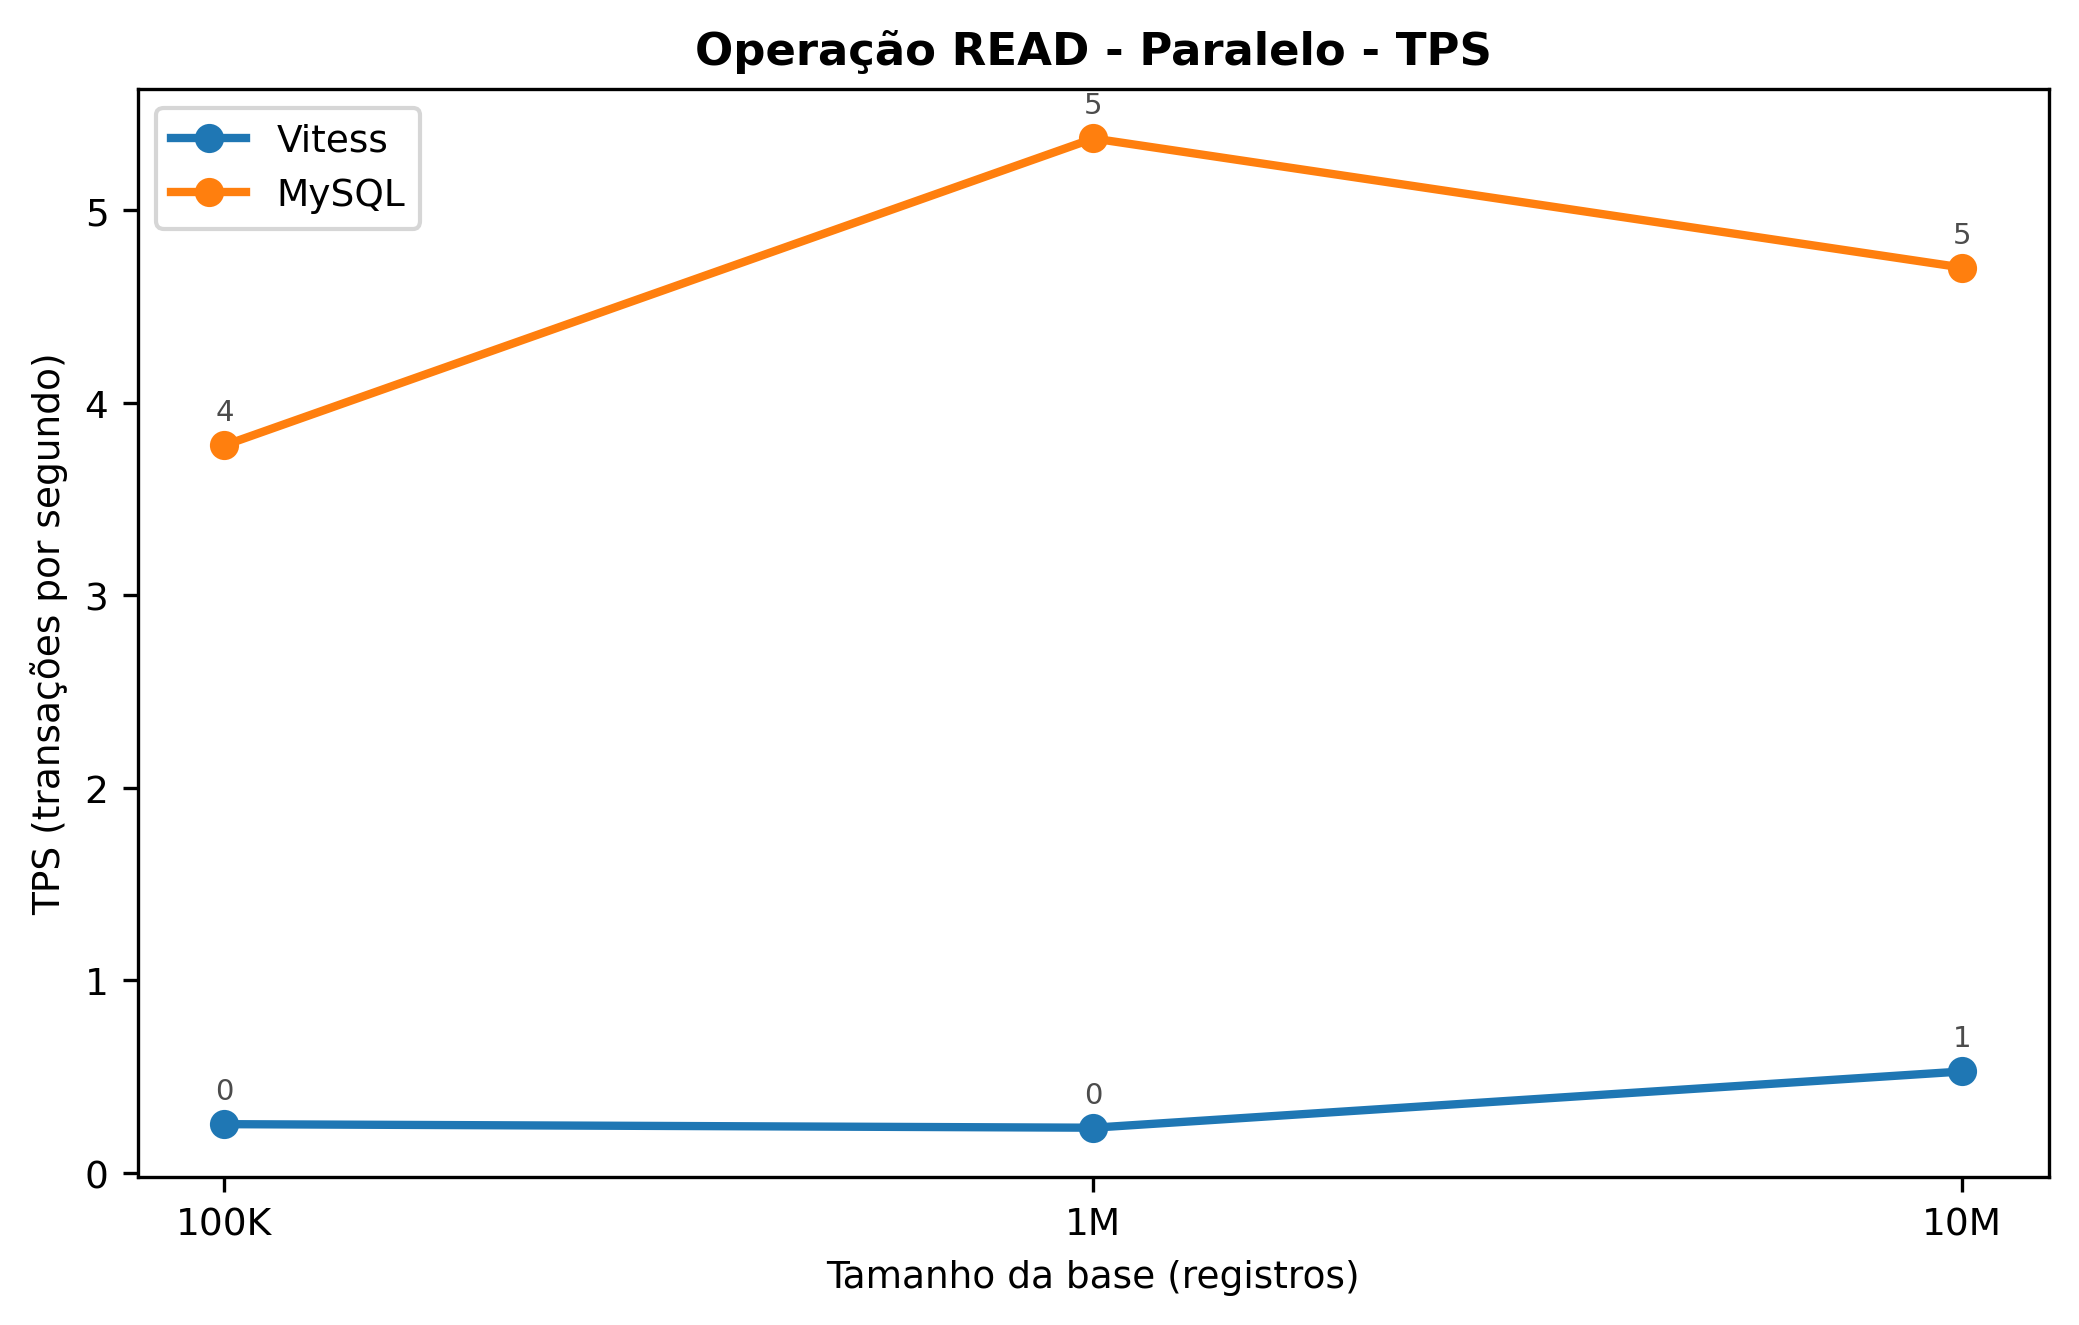
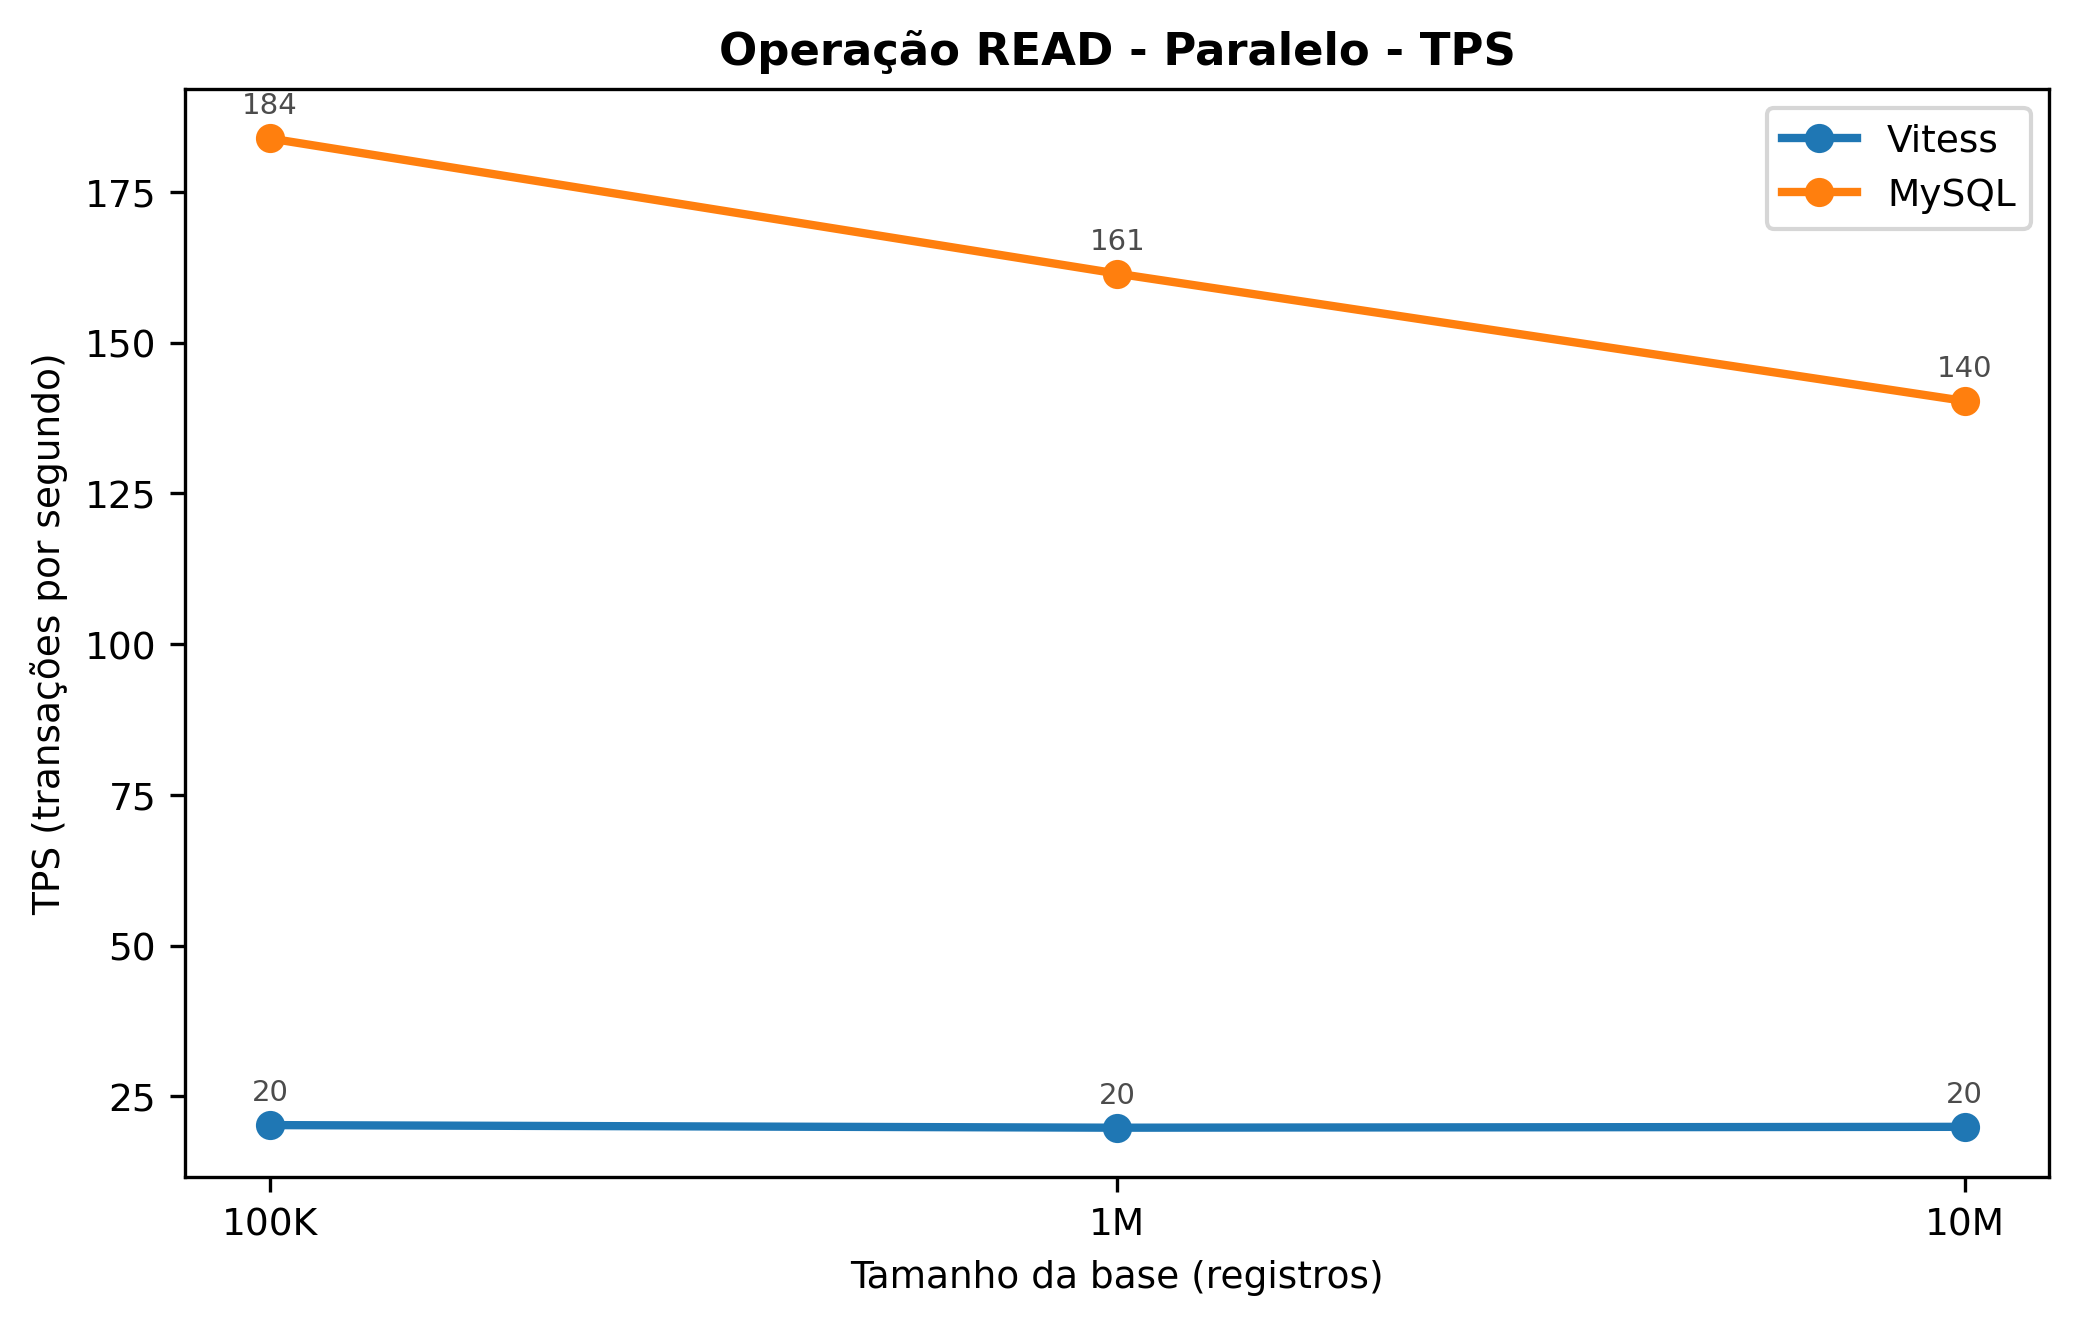
fix: corrigir fonte de dados do pipeline e regerar agregados
O pipeline lia data/resultados.csv (local, dez/2025, em rates) e dividia
por total_time de novo, gerando TPS ~70x menor que o real nos cenários
paralelos. Apontado para sysbench/results/aws/resultados.csv (jan/2026,
em contagens brutas) e adicionado drop_duplicates() em prepare_agg.

Inclui PNGs paralelos regerados, degradação atualizada (CSV+XLSX) e
prompt de regeneração para futuras trocas de fonte.

diff --git a/graphics/scripts/prepare_data.py b/graphics/scripts/prepare_data.py
@@ -4,7 +4,7 @@ from src.io_utils import prepare_agg
 
 if __name__ == "__main__":
     p = argparse.ArgumentParser()
-    p.add_argument("--in",  dest="inp",  default="data/resultados.csv")
+    p.add_argument("--in",  dest="inp",  default="../sysbench/results/aws/resultados.csv")
     p.add_argument("--out", dest="outp", default="data/resultados_agg.csv")
     args = p.parse_args()
     prepare_agg(Path(args.inp), Path(args.outp))

diff --git a/graphics/src/io_utils.py b/graphics/src/io_utils.py
@@ -77,6 +77,7 @@ def _aggregate(df: pd.DataFrame) -> pd.DataFrame:
 
 def prepare_agg(raw_path: Path, out_path: Path) -> pd.DataFrame:
     df_raw = pd.read_csv(raw_path)
+    df_raw = df_raw.drop_duplicates()
     df = _clean_df(df_raw)
     df_agg = _aggregate(df)
     out_path.parent.mkdir(parents=True, exist_ok=True)

diff --git a/graphics/prompt_regenerar_degradacao.md b/graphics/prompt_regenerar_degradacao.md
@@ -1,0 +1,87 @@
+# Tarefa
+Regenerar a tabela de degradação e as frases de pitch dos slides de defesa do TCC
+(Vitess vs MySQL) a partir de um novo `resultados.csv`.
+
+## Contexto do projeto
+Projeto em `/home/marciliosantos/tcc/vitess-mysql-performance-comparison/`.
+Diretório de trabalho: `graphics/`.
+Venv: `../.venv/bin/python`.
+
+Pipeline:
+1. `scripts/prepare_data.py` lê o CSV bruto em `../sysbench/results/aws/resultados.csv`
+   e gera `data/resultados_agg.csv` (médias por combo).
+2. `scripts/build_degradation.py` gera `data/degradacao.csv`.
+3. `scripts/build_degradation_xlsx.py` gera `data/degradacao.xlsx` (com fórmulas vivas).
+4. `main.py` gera os 16 PNGs em `figures/sintese/`.
+
+CSV bruto esperado: colunas
+`timestamp_start,timestamp_end,database,test_type,scale,simultaneity,threads,total_time,tps,qps,lat_min,lat_avg,lat_max,lat_95th`
+- `tps` e `qps` são **contagens totais** (não rates); o pipeline divide por `total_time`.
+- `test_type` = `{write,read,update,delete}_{1..10}` (10 reps por combo).
+- `scale` ∈ `{baixa, media, alta}` (100K, 1M, 10M). Ignorar `big`.
+- `simultaneity` ∈ `{sequencial, paralelo}`.
+
+## Passos
+
+1. Substituir o arquivo `../sysbench/results/aws/resultados.csv` pelo novo CSV.
+2. Rodar:
+   ```
+   ../.venv/bin/python -m scripts.prepare_data
+   ../.venv/bin/python -m scripts.build_degradation
+   ../.venv/bin/python -m scripts.build_degradation_xlsx
+   ../.venv/bin/python main.py
+   ```
+3. Validar 1 combo conhecido (ex.: parsear os 10 `.txt` de
+   `../sysbench/results/aws/mysql/baixa/parallel/write_*.txt`, extrair "transactions: N (X per sec.)"
+   e comparar a média com `data/resultados_agg.csv`).
+
+## Tabela de degradação (4 tabelas — uma por operação)
+
+Formato: **% de degradação** (valores positivos = piorou).
+Sinais: TPS negativo no raw → positivo na tabela (queda); Lat P95 positivo no raw → positivo
+na tabela (aumento). Quando a latência **melhorou** (delta negativo), marcar com `↓`.
+Arredondar a inteiro. Coluna "Δ 100K → 10M".
+
+Template:
+```
+### {OPERACAO} — Degradação 100K → 10M
+|              |   TPS   | Lat P95 |
+|--------------|--------:|--------:|
+| Seq · MySQL  |   X%    |   X%    |
+| Seq · Vitess |   X%    |   X%    |
+| Par · MySQL  |   X%    |   X%    |
+| Par · Vitess |   X%    |   X%    |
+```
+
+## Frases de slide (para cada operação: CREATE, READ, UPDATE, DELETE)
+
+Estrutura fixa por slide:
+- **Barra verde** (uppercase, ≤ 50 chars) — manchete com a tese principal do slide.
+- **Texto verde** (1 frase) — enquadra o mecanismo técnico envolvido na operação.
+- **3 bullets** — explicação técnica, cada um curto e específico.
+- **Frase preta** (impactante, com número) — fecha com o maior contraste numérico
+  (use **fator multiplicativo** da latência ou queda % do TPS — o que tiver mais impacto).
+- **Pitch falado** (2–4 frases, ~15 s) — conta a história usando 1–2 números chave
+  e explicita o tradeoff "MySQL ganha absoluto / Vitess ganha estabilidade".
+
+Regras:
+- Usar **fator multiplicativo** (`new/base`) quando contar histórias de latência
+  (ex.: "multiplica por 17"), e **% de queda** quando contar TPS
+  (ex.: "perde 85% do TPS").
+- Não confundir "sequencial" do cenário (1 thread) com "I/O sequencial" em disco.
+- Para a queda de TPS do MySQL ao escalar, prefira a explicação de
+  **working set saindo do buffer pool** + **profundidade do B+tree** + **manutenção
+  de índices secundários**, em vez de "fragmentação" (que é efeito de segunda ordem).
+- Para Vitess, citar **vtgate roteando e mantendo cache de metadados**, **vttablet
+  coordenando com a réplica do shard antes do commit**, e **overhead fixo por operação**.
+
+## Saída esperada
+
+1. As 4 tabelas de degradação atualizadas.
+2. Para cada operação (CREATE, READ, UPDATE, DELETE):
+   - Barra verde
+   - Texto verde
+   - 3 bullets
+   - Frase preta
+   - Pitch falado
+3. Validar que os fatores numéricos citados nas frases batem com o CSV.
